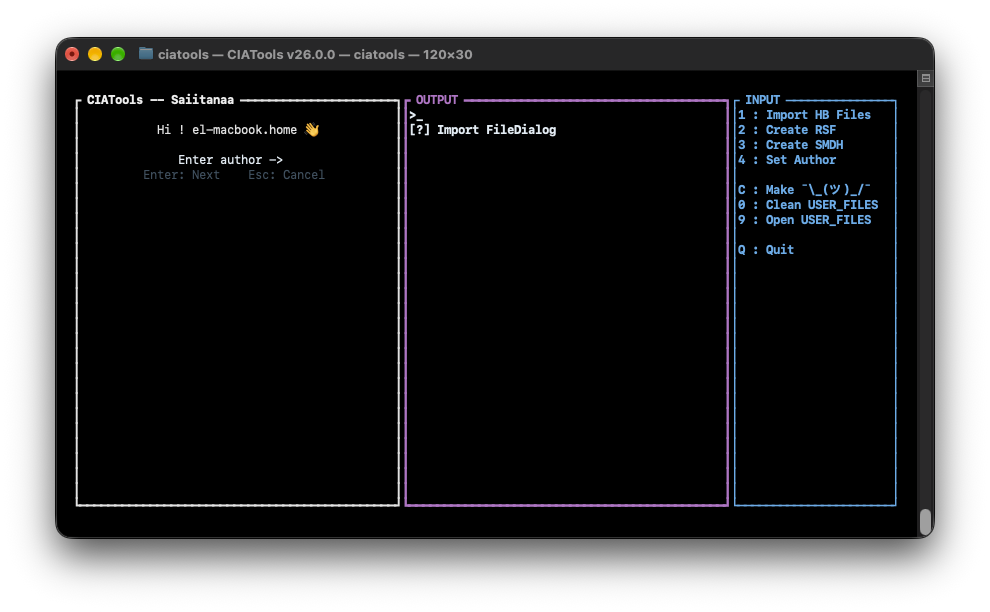
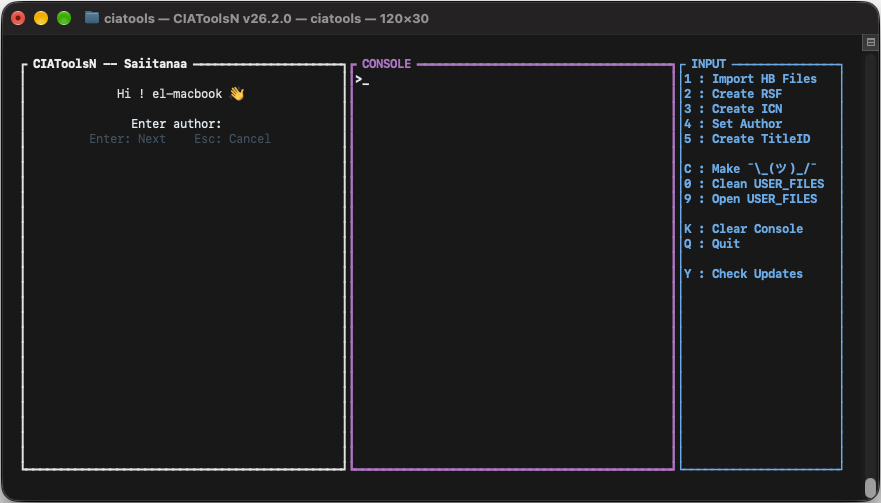
Add Help section - FIX UI bugs

diff --git a/src/main.rs b/src/main.rs
@@ -8,7 +8,7 @@ mod icncreator;
 mod utils;
 mod bannertool;
 
-use std::{fs, io, path::PathBuf, process::Command};
+use std::{fs, io, path::PathBuf, process::Command };
 
 use crossterm::event::{self, Event, KeyCode, KeyEventKind};
 
@@ -132,8 +132,6 @@ impl App {
             tag_name: String,
         }
 
-        self.output.push("[?] Check updates...".to_string());
-
         match reqwest::blocking::Client::new()
             .get("https://api.github.com/repos/saiitanaa/CIATools/releases/latest")
             .header("User-Agent", "CIATools")
@@ -188,6 +186,7 @@ impl App {
                 Line::from("3 : Create ICN"),
                 Line::from("4 : Set Author"),
                 Line::from("5 : Create TitleID"),
+                Line::from("6 : Create UniqueID"),
                 Line::from(""),
                 Line::from(r"C : Make ¯\_(ツ)_/¯"),
                 Line::from("0 : Clean USER_FILES"),
@@ -195,6 +194,7 @@ impl App {
                 Line::from(""),
                 Line::from("K : Clear Console"),
                 Line::from("Q : Quit"),
+                Line::from("H : Help !!"),
                 Line::from(""),
                 Line::from("Y : Check Updates"),
             ])
@@ -479,6 +479,35 @@ impl App {
             match key.code {
                 KeyCode::Char('q') | KeyCode::Char('Q') => {
                     self.exit = true;
+                }
+
+                KeyCode::Char('h') | KeyCode::Char('H') => {
+                    #[cfg(target_os = "macos")]
+                    {
+                        self.output.push("[!] NO PROBLEM !!".to_string());
+                        Command::new("open")
+                            .arg("https://github.com/saiitanaa/CIATools/blob/main/README.md")
+                            .status()
+                            .ok();
+                    }
+
+                    #[cfg(target_os = "windows")]
+                    {
+                        self.output.push("[!] NO PROBLEM !!!".to_string());
+                        Command::new("start")
+                            .arg("https://github.com/saiitanaa/CIATools/blob/main/README.md")
+                            .status()
+                            .ok();
+                    }
+
+                    #[cfg(target_os = "linux")]
+                    {
+                        self.output.push("[!] NO PROBLEM !!!!".to_string());
+                        Command::new("xdg-open")
+                            .arg("https://github.com/saiitanaa/CIATools/blob/main/README.md")
+                            .status()
+                            .ok();
+                    }
                 }
 
                 KeyCode::Char('k') | KeyCode::Char('K') => {
@@ -900,9 +929,9 @@ impl Widget for &App {
                 };
 
                 lines.push(
-                    Line::from("ICN CREATOR")
+                    Line::from("ICN Creator")
                         .bold()
-                        .fg(Color::LightBlue),
+                        .fg(Color::Yellow),
                 );
                 lines.push(Line::from(""));
 

diff --git a/bannertool/source/cmd.cpp b/bannertool/source/cmd.cpp
@@ -346,7 +346,7 @@ static int cmd_make_smdh(SMDH& smdh, const std::string& icon, const std::string&
         return 1;
     }
 
-    printf("Created SMDH \"%s\".\n", output.c_str());
+    //printf("Created SMDH \"%s\".\n", output.c_str());
     return 0;
 }
 

diff --git a/README.md b/README.md
@@ -40,6 +40,18 @@ To do this, **press** `1`.
 
 **You're now in the file explorer!** Select all the **files** needed for **compilation**.
 
+**Don't have** an TitleID or UniqueID ? No problem ! we'll **create them for you** 😊
+
+To do this, **press** `5` for TitleID Generator or `6` for UniqueID Generator 
+
+#### For TitleID Creator
+
+![Not implemented](./assets/titleid_generator.png)
+
+#### For UniqueID Creator
+
+![Not implemented](./assets/uniqueid_generator.png)
+
 **Don't have** an `.rsf` or `.smdh` **file**? No problem—we'll **create them for you**!
 
 To do this, **press** `2` for RSF or `3` for SMDH.
@@ -48,9 +60,9 @@ To do this, **press** `2` for RSF or `3` for SMDH.
 
 ![Description](./assets/rsf_creator.png)
 
-#### For SMDH File: 
+#### For ICN File: 
 
-![Description](./assets/smdh_creator.png)
+![Description](./assets/icn_creator.png)
 
 **Perfect! Now let's define an author.** 
 
